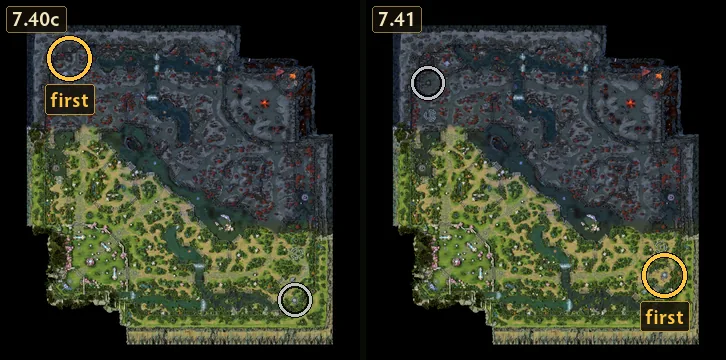
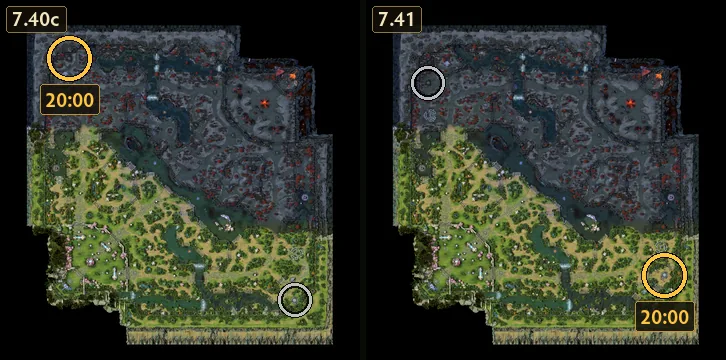
fix: a boss's rows drop its name on its card; boss pictures show the first spawn time
- On a unit's card the unit's name goes off the front of its rows (_postprocess_unit_possessive):
  7.41 "Spawn preference has switched" / "Pit preference has switched", 7.38 Roshan knockback and
  Tormentor abilities rows. A stray "Roshan's …" row in a flat list moves to Roshan's card
  (_postprocess_boss_rows_home; Valve's 7.41 notes had no Roshan block).
- The first-spawn pictures say when the boss first spawns there instead of "first": Tormentor 20:00
  (since 7.39), Roshan 0:00 (terrain_spots "first" label).

Changed region(s): [[0.8485, 0.825, 0.9697, 0.9167], [0.0303, 0.2444, 0.1515, 0.3361]]

diff --git a/generate_patch_code_v2.py b/generate_patch_code_v2.py
@@ -2592,6 +2592,60 @@ _PER_MINUTE_ROW = re.compile(r'^W\(li\("(?P<name>[^"]*?\b(?:upgrade|growth|gain)
 _MINUTE_LEVELS = "[0, 5, 10, 15, 20, 25, 30, 40, 50, 60]"
 
 
+_UNIT_HEAD_RE = re.compile(r'^W\(unit_header\("(?P<name>[^"]+)"')
+
+
+def _postprocess_boss_rows_home(lines):
+    """A row "Roshan's …" / "Tormentor's …" outside that boss's card (7.41: "Roshan's pit preference has switched" sat
+    in the flat Map Objectives list) moves to the card — the one already on the page, or a new one right after the
+    list it came from (owner 2026-10-16)."""
+    out = list(lines)
+    for boss, (icon, _prefix) in _BOSSES.items():
+        head = f'W(unit_header("{boss}", "{icon}", general=False, track=True))'
+        unit, stray = None, []
+        for i, line in enumerate(out):
+            m = _UNIT_HEAD_RE.match(line)
+            if m:
+                unit = m.group("name")
+            elif re.match(r'^W\((?:hero_header|item_header|plain_header|section|subgroup)\(', line):
+                unit = None
+            elif unit != boss and line.startswith(f'W(li("{boss}\'s '):
+                stray.append(i)
+        if not stray:
+            continue
+        rows = [out[i] for i in stray]
+        for i in reversed(stray):
+            del out[i]
+        out = _drop_empty_ul(out)
+        card = next((i for i, l in enumerate(out) if l.startswith(f'W(unit_header("{boss}"')), None)
+        if card is not None:
+            close = next(i for i in range(card, len(out)) if out[i] == 'W(ul_close())')
+            out[close:close] = rows
+        else:
+            at = next((i + 1 for i in range(min(stray[0], len(out) - 1), len(out)) if out[i] == 'W(ul_close())'),
+                      len(out))
+            out[at:at] = [head, 'W(ul_open())'] + rows + ['W(ul_close())']
+    return out
+
+
+def _postprocess_unit_possessive(lines):
+    """Under a unit's card the unit's name off the front of its rows: "Tormentor's spawn preference has switched" ->
+    "Spawn preference has switched" (owner 2026-10-16: the card already says whose it is)."""
+    out, unit = [], None
+    for line in lines:
+        m = _UNIT_HEAD_RE.match(line)
+        if m:
+            unit = m.group("name")
+        elif re.match(r'^W\((?:hero_header|item_header|plain_header|section)\(', line):
+            unit = None
+        elif unit:
+            m2 = re.match(r'^(W\(li(?:_formula)?\(")' + re.escape(unit) + r"'s? ([a-z])", line)
+            if m2:
+                line = m2.group(1) + m2.group(2).upper() + line[m2.end():]
+        out.append(line)
+    return out
+
+
 def _postprocess_per_minute(lines):
     """"<X> upgrade per minute increased from A to B" (a value that grows with game time, 7.41 Tormentor "Barrier
     upgrade per minute increased from 20 to 50") -> a minute table li_formula, as the barrier regen row (owner
@@ -3556,6 +3610,8 @@ def generate(version):
     # 3. Drop a v2-todo breadcrumb above ability blocks tagged "reworked".
     out = _postprocess_aghs_merge(out)
     out = _postprocess_boss_blocks(out)
+    out = _postprocess_boss_rows_home(out)            # "Roshan's X" in a flat list -> Roshan's card
+    out = _postprocess_unit_possessive(out)           # "Tormentor's X" on its card -> "X"
     out = _postprocess_per_minute(out)                # "… upgrade per minute …" -> minute table
     out = _postprocess_merge_twin_rows(out)
     out = _postprocess_minute_formula(out)

diff --git a/content/p738.py b/content/p738.py
@@ -60,7 +60,7 @@ def build():
     W(ul_open())
     W(li("Roshan is back in the river, with one pit located near each sidelane", t("REWORK"), extra=inline_note("Top lair is slightly closer to Dire's jungle entrance, and bottom one is closer to Radiant's<br>Only the active Roshan pit will show as a minimap icon<br>Roshan initially spawns in the Bottom Pit<br>Starting at 15:00, Roshan will follow the day/night cycle, walking across the river towards his designated pit: Top at night and Bottom at day<br>&nbsp;&nbsp;– Roshan no longer has bonus movement speed while moving between pits<br>&nbsp;&nbsp;– Roshan now has basic 25% Slow Resistance and an additional 25% Slow Resistance when running between pits")))
     W(li("Added a Roshan icon near the minimap that shows Roshan's state (alive, dead, maybe alive) and location", t("QoL"), extra=inline_note("If Roshan is dead, the status will also include a timer until his possible respawn<br>Since Roshan's respawn takes between 8 to 11 minutes, during this window the status will say that he may be alive, but also include a timer until the guaranteed respawn<br>If a team gains vision over Roshan or Roshan's Roar of Retribution is heard during this status, the timer will be updated to inform that Roshan is alive<br>Templar Assassin's Third Eye Innate will cause the icon to display exactly when and where Roshan will respawn")))
-    W(li("Roshan's knockback now has a 2s cooldown before it can be applied to the same unit again", t("NERF"), extra=inline_note("The knockback of Roshan's Walk: since 7.33 Roshan pushes units aside while walking between his pits (listed among knockback effects in 7.36b)")))
+    W(li("Knockback now has a 2s cooldown before it can be applied to the same unit again", t("NERF"), extra=inline_note("The knockback of Roshan's Walk: since 7.33 Roshan pushes units aside while walking between his pits (listed among knockback effects in 7.36b)")))
     W(li("Roshan no longer drops Aghanim's Blessing", t("DEL")))
     W(ul_close())
     W(ability_change(None, {"name": "Throw", "icon_url": "../icons/abilities/roshan_grab_and_throw.png",
@@ -81,7 +81,7 @@ def build():
     W(li("Tormentor is also dependent on the day and night cycle, so it's at Radiant side at night and at Dire's side at day. As a result, it will always appear at the Radiant side first", t("REWORK"), extra=inline_note("Or at Dire side in Turbo<br>Due to this Roshan and Tormentor are always on opposite sides — Exceptions may apply in Turbo")))
     W(li("Tormentor spawns repositioned to the corners of the map", t("REWORK")))
     W(li("Tormentor now spawns for the first time at 15:00", t("REWORK"), extra=inline_note("7:30 in Turbo")))
-    W(li("Tormentor's abilities now scale with game time instead of the number of deaths", t("REWORK")))
+    W(li("Abilities now scale with game time instead of the number of deaths", t("REWORK")))
     W(li("Tormentor now grants 250 gold to each team member on death", t("NEW"), extra=inline_note("Still grants additional 280 gold when all team members already have Aghanim's Shard")))
     W(ul_close())
     # Tooltips: game localization 7.37e / 7.38 (dotabuff/d2vpkr abilities_english.txt) — the text did not

diff --git a/tests/test_general_regroup.py b/tests/test_general_regroup.py
@@ -123,3 +123,17 @@ def test_a_lane_creeps_ability_rows_get_its_block():
     plain, per = g._lane_card_abilities("unit|creep-goodguys-flagbearer", rows)
     assert plain == rows[1:] and list(per) == ["Inspiration Aura"]
     assert per["Inspiration Aura"][1][0].startswith('W(li("No longer affects heroes"')
+
+
+def test_a_bosss_rows_go_to_its_card_without_its_name():
+    """Owner 2026-10-16: "Tormentor's spawn preference has switched" -> "Spawn preference has switched" on the card;
+    a stray "Roshan's ..." row in a flat list moves to Roshan's card."""
+    lines = ['W(ul_open())', 'W(li("Wisdom Shrines now reverse their countdowns", t("REWORK")))',
+             'W(li("Roshan' + "'" + 's pit preference has switched", t("MISC")))', 'W(ul_close())',
+             'W(unit_header("Tormentor", "../icons/units/npc_dota_miniboss.png", general=False, track=True))',
+             'W(ul_open())', 'W(li("Tormentor' + "'" + 's spawn preference has switched", t("MISC")))', 'W(ul_close())']
+    out = g._postprocess_unit_possessive(g._postprocess_boss_rows_home(lines))
+    r = out.index('W(unit_header("Roshan", "../icons/units/npc_dota_roshan.png", general=False, track=True))')
+    assert out[r + 2] == 'W(li("Pit preference has switched", t("MISC")))'
+    assert 'W(li("Spawn preference has switched", t("MISC")))' in out
+    assert not any("Roshan's" in line for line in out[:r])

diff --git a/scripts/gen/terrain_shots.py b/scripts/gen/terrain_shots.py
@@ -190,7 +190,8 @@ WHOLE_MAP_R = 7000           # a spot this big shows the whole map
 def _first(img, cx, cy, r, ver, entry, side, half, width, font):
     """A boss whose first spawn changed side (2026-10-16, 7.41 "Tormentor's spawn preference has switched" / "Roshan's
     pit preference has switched"): every lair of that boss ringed thin white, the one it starts in — on this half —
-    ringed gold with a "first" plate. entry["first"] = {"kind": "tormentors" | "roshan", "old": [x, y], "new": [x, y]}."""
+    ringed gold with a plate saying when it first spawns there. entry["first"] = {"kind": "tormentors" | "roshan",
+    "label": "20:00", "old": [x, y], "new": [x, y]} (the owner 2026-10-16: the time, not "first")."""
     first = entry.get("first")
     if not first:
         return
@@ -208,7 +209,7 @@ def _first(img, cx, cy, r, ver, entry, side, half, width, font):
         d.ellipse([X - rr, Y - rr, X + rr, Y + rr], outline=(FIRST + (255,)) if gold else (240, 240, 240, 200),
                   width=width + 1 if gold else width)
         if gold:
-            text = "first"
+            text = first.get("label", "first")      # the boss's first spawn time (owner 2026-10-16)
             w = d.textlength(text, font=font)
             pad = max(3, font.size // 4)
             bx = min(max(X - w / 2 - pad, 2), half - w - 2 * pad - 2)

diff --git a/content/p741.py b/content/p741.py
@@ -70,7 +70,7 @@ def build():
 
     W(unit_header("Tormentor", "../icons/units/npc_dota_miniboss.png", general=False, track=True))
     W(ul_open())
-    W(li("Tormentor's spawn preference has switched", t("MISC"),
+    W(li("Spawn preference has switched", t("MISC"),
          extra=inline_note("Now begins in the Bottom Chasm.")))
     W(li("Now has 25% Status Resistance", t("NEW")))
     W(li("No longer deals damage to neutral units", t("DEL")))
@@ -118,7 +118,7 @@ def build():
     W(ul_close())
     W(unit_header("Roshan", "../icons/units/npc_dota_roshan.png", general=False, track=True))
     W(ul_open())
-    W(li("Roshan's pit preference has switched", t("MISC"),
+    W(li("Pit preference has switched", t("MISC"),
          extra=inline_note("Now begins in the Top Pit.")))
     W(ul_close())
 

diff --git a/docs/agent-rules/patch-tags.md b/docs/agent-rules/patch-tags.md
@@ -295,7 +295,8 @@ HTML-escape тултип через `_html.escape(text, quote=True)`. CSS `.ench
 - **Способности существ — всегда блоками способностей** (2026-10-16): у боссов (Tormentor, Roshan) Valve пишет и без двоеточия («Unyielding Shield Base barrier increased…») — `_postprocess_boss_blocks` узнаёт имя и так, в строках с формулой тоже; у лайн крипов — `_lane_card_abilities` (7.40 Flagbearer Inspiration Aura; иконка из файлов игры, `scripts/fetch/extract_vpk_boss_icons.py`). Раздел General с именем босса (7.41e «Tormentor») — его карточка, не простой заголовок. Поправлены 7.41 Tormentor, 7.40 Flagbearer, 7.41e Tormentor (аудит всех патчей 10-16).
 - **Лишний лайн крип раньше — BUFF, позже — NERF** (владелец 2026-10-16: «First +1 siege creep timing decreased from 35:00 to 30:00 — а не buff ли это? на 5 минут раньше»): больше этого крипа и раньше — его усиление; процента нет (процент от времени смысла не имеет). Время появления объектов и боссов («First Spawn Time 15:00 → 20:00», «Tier 1 availability 5:00 → 0:00») — по-прежнему REWORK. Канон в генераторе.
 - **Рост со временем — таблица по минутам** (2026-10-16): «<X> upgrade per minute increased from A to B» → `li_formula` с минутами 0…60 (`_postprocess_per_minute`; 7.41 Tormentor Barrier upgrade). XPM и прочие скорости («Experience per Minute») — не рост, остаются строкой.
-- **Первое появление босса переехало — снимком** (2026-10-16): «Tormentor's spawn preference has switched», «Roshan's pit preference has switched» — снимок карты, где золотым кольцом «first» отмечено логово, с которого босс начинает, на старой и на новой карте (`terrain_spots.json` ключ `first`, `terrain_shots._first`).
+- **Первое появление босса переехало — снимком** (2026-10-16): «Spawn preference has switched» (Tormentor), «Pit preference has switched» (Roshan) — снимок карты, где золотым кольцом отмечено логово, с которого босс начинает, на старой и на новой карте, а на плашке — когда он там появляется: Tormentor 20:00 (с 7.39, было 15:00), Roshan 0:00 (`terrain_spots.json` ключ `first` с `label`, `terrain_shots._first`).
+- **На карточке существа его имя в начале строки не повторяем** (владелец 2026-10-16): «Tormentor's spawn preference» → «Spawn preference» (`_postprocess_unit_possessive`); строка «Roshan's …» из общего списка уходит на карточку Roshan (`_postprocess_boss_rows_home`). Поправлены 7.41, 7.38.
 - **Раньше-не-было — в «?»** (2026-10-16): «second now occurs at 60:00» не говорит, как было; в «?» — что до 7.41 добавка была одна, на 35:00 (с 7.22). Если строка Valve называет только новое значение, найти старое (патчноуты, файлы игры) и вписать в «?».
 - **Решения владельца по тегам 7.41** (2026-10-16, `TAG_OVERRIDES`): Mars Dauntless «no longer considers allies… outnumbered» — BUFF (реген включается чаще); BKB «Avatar duration changed from 9/8/7/6s to 9/8/7s» — BUFF (минимум 7 с вместо 6); Rubick «Stolen spells now have their cooldown decreased» — NEW (новое свойство вместо усиления дебаффов).
 - **«… timing now occurs at 60:00» — NEW, своей строкой** (владелец 2026-10-16): второй таймер осадных крипов — новое свойство катапульты; не REWORK и не одна строка с «First … decreased from 35:00 to 30:00» (оба пробовали). Канон в генераторе; NEW по порядку тегов встаёт выше REWORK — так и задумано.

diff --git a/docs/terrain.md b/docs/terrain.md
@@ -412,7 +412,7 @@ Tools → Source Filmmaker, `tools/sfm.dll`) renders leamare's look:
   picture — the old ones next to `.tc-old`, the new ones inside the clipped `.tc-new-layer` — once a picture pixel
   would be drawn bigger than a screen pixel. Pages' 1 GB limit: tiles for the site's maps only.
 - **Where a boss spawns first (2026-10-16)** — a spot's `"first": {"kind": "tormentors" | "roshan", "old": [x, y],
-  "new": [x, y]}`: every lair of that boss ringed thin white, the starting one gold with a "first" plate, on each half
+  "new": [x, y]}`: every lair of that boss ringed thin white, the starting one gold with a plate of its first spawn time ("label": 20:00 / 0:00), on each half
   (`terrain_shots._first`; lairs from mapdata npc_dota_miniboss_spawner / npc_dota_roshan_spawner). 7.41 Tormentor
   (whole map, no minimap above `WHOLE_MAP_R`) and Roshan.
 - **Lane paths on the micro-screenshots: dashed = old, solid = new (2026-10-16)** — the owner: "in the line
